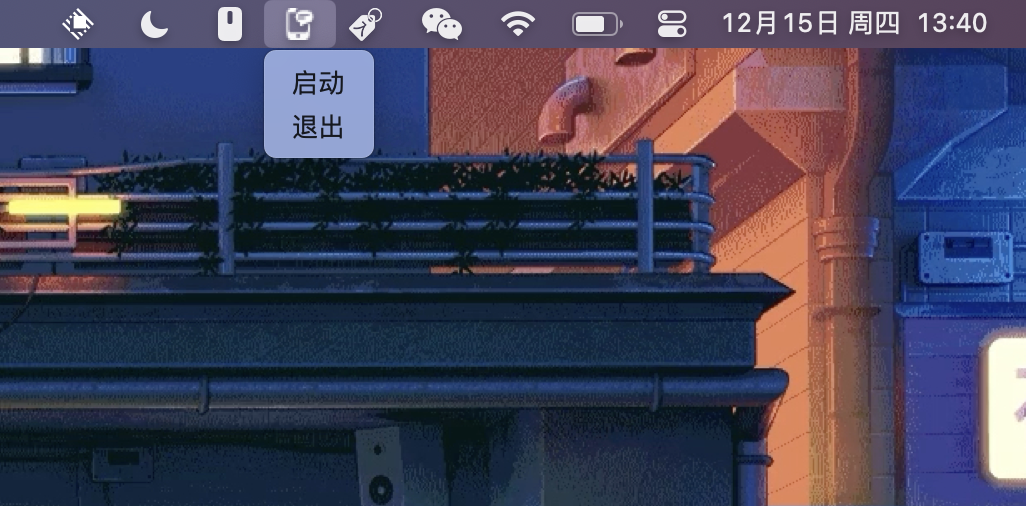
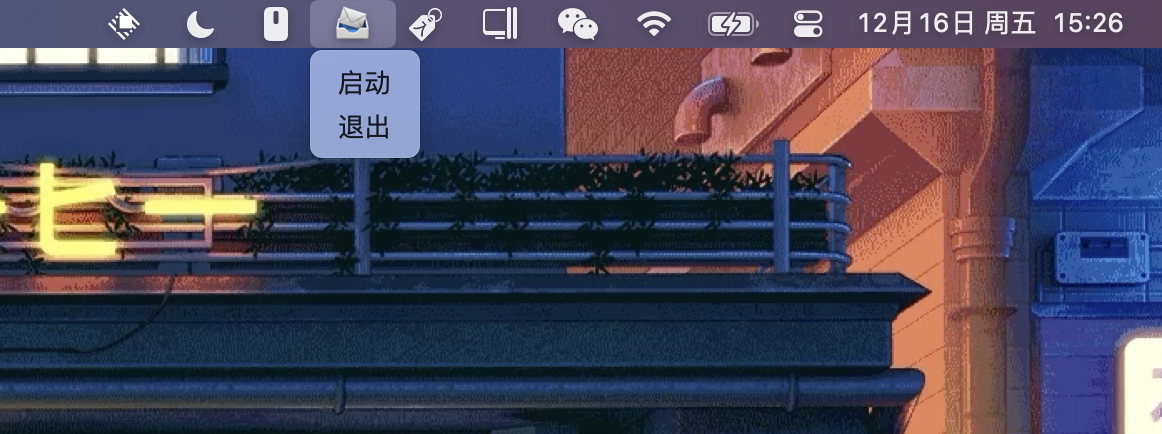
chage_icon

diff --git a/src/main.rs b/src/main.rs
@@ -11,7 +11,7 @@ use tray_item::TrayItem;
 use home::home_dir;
 
 fn main() {
-    let mut tray = TrayItem::new("messauto", "icon").unwrap();
+    let mut tray = TrayItem::new("📨", "").unwrap();
     tray.add_menu_item("启动", || {
         std::thread::spawn(move || {
             let auto_input = true;
@@ -64,9 +64,6 @@ fn get_message_in_one_minute() -> String{
                                 .output()
                                 .expect("sqlite命令运行失败");
     let stdout = String::from_utf8(output.stdout).unwrap();
-    // let stderr = String::from_utf8(output.stderr).unwrap();
-    // println!("stdout: {:?}", stdout);
-    // println!("stderr: {:?}", stderr);
     return stdout;
 }
 
